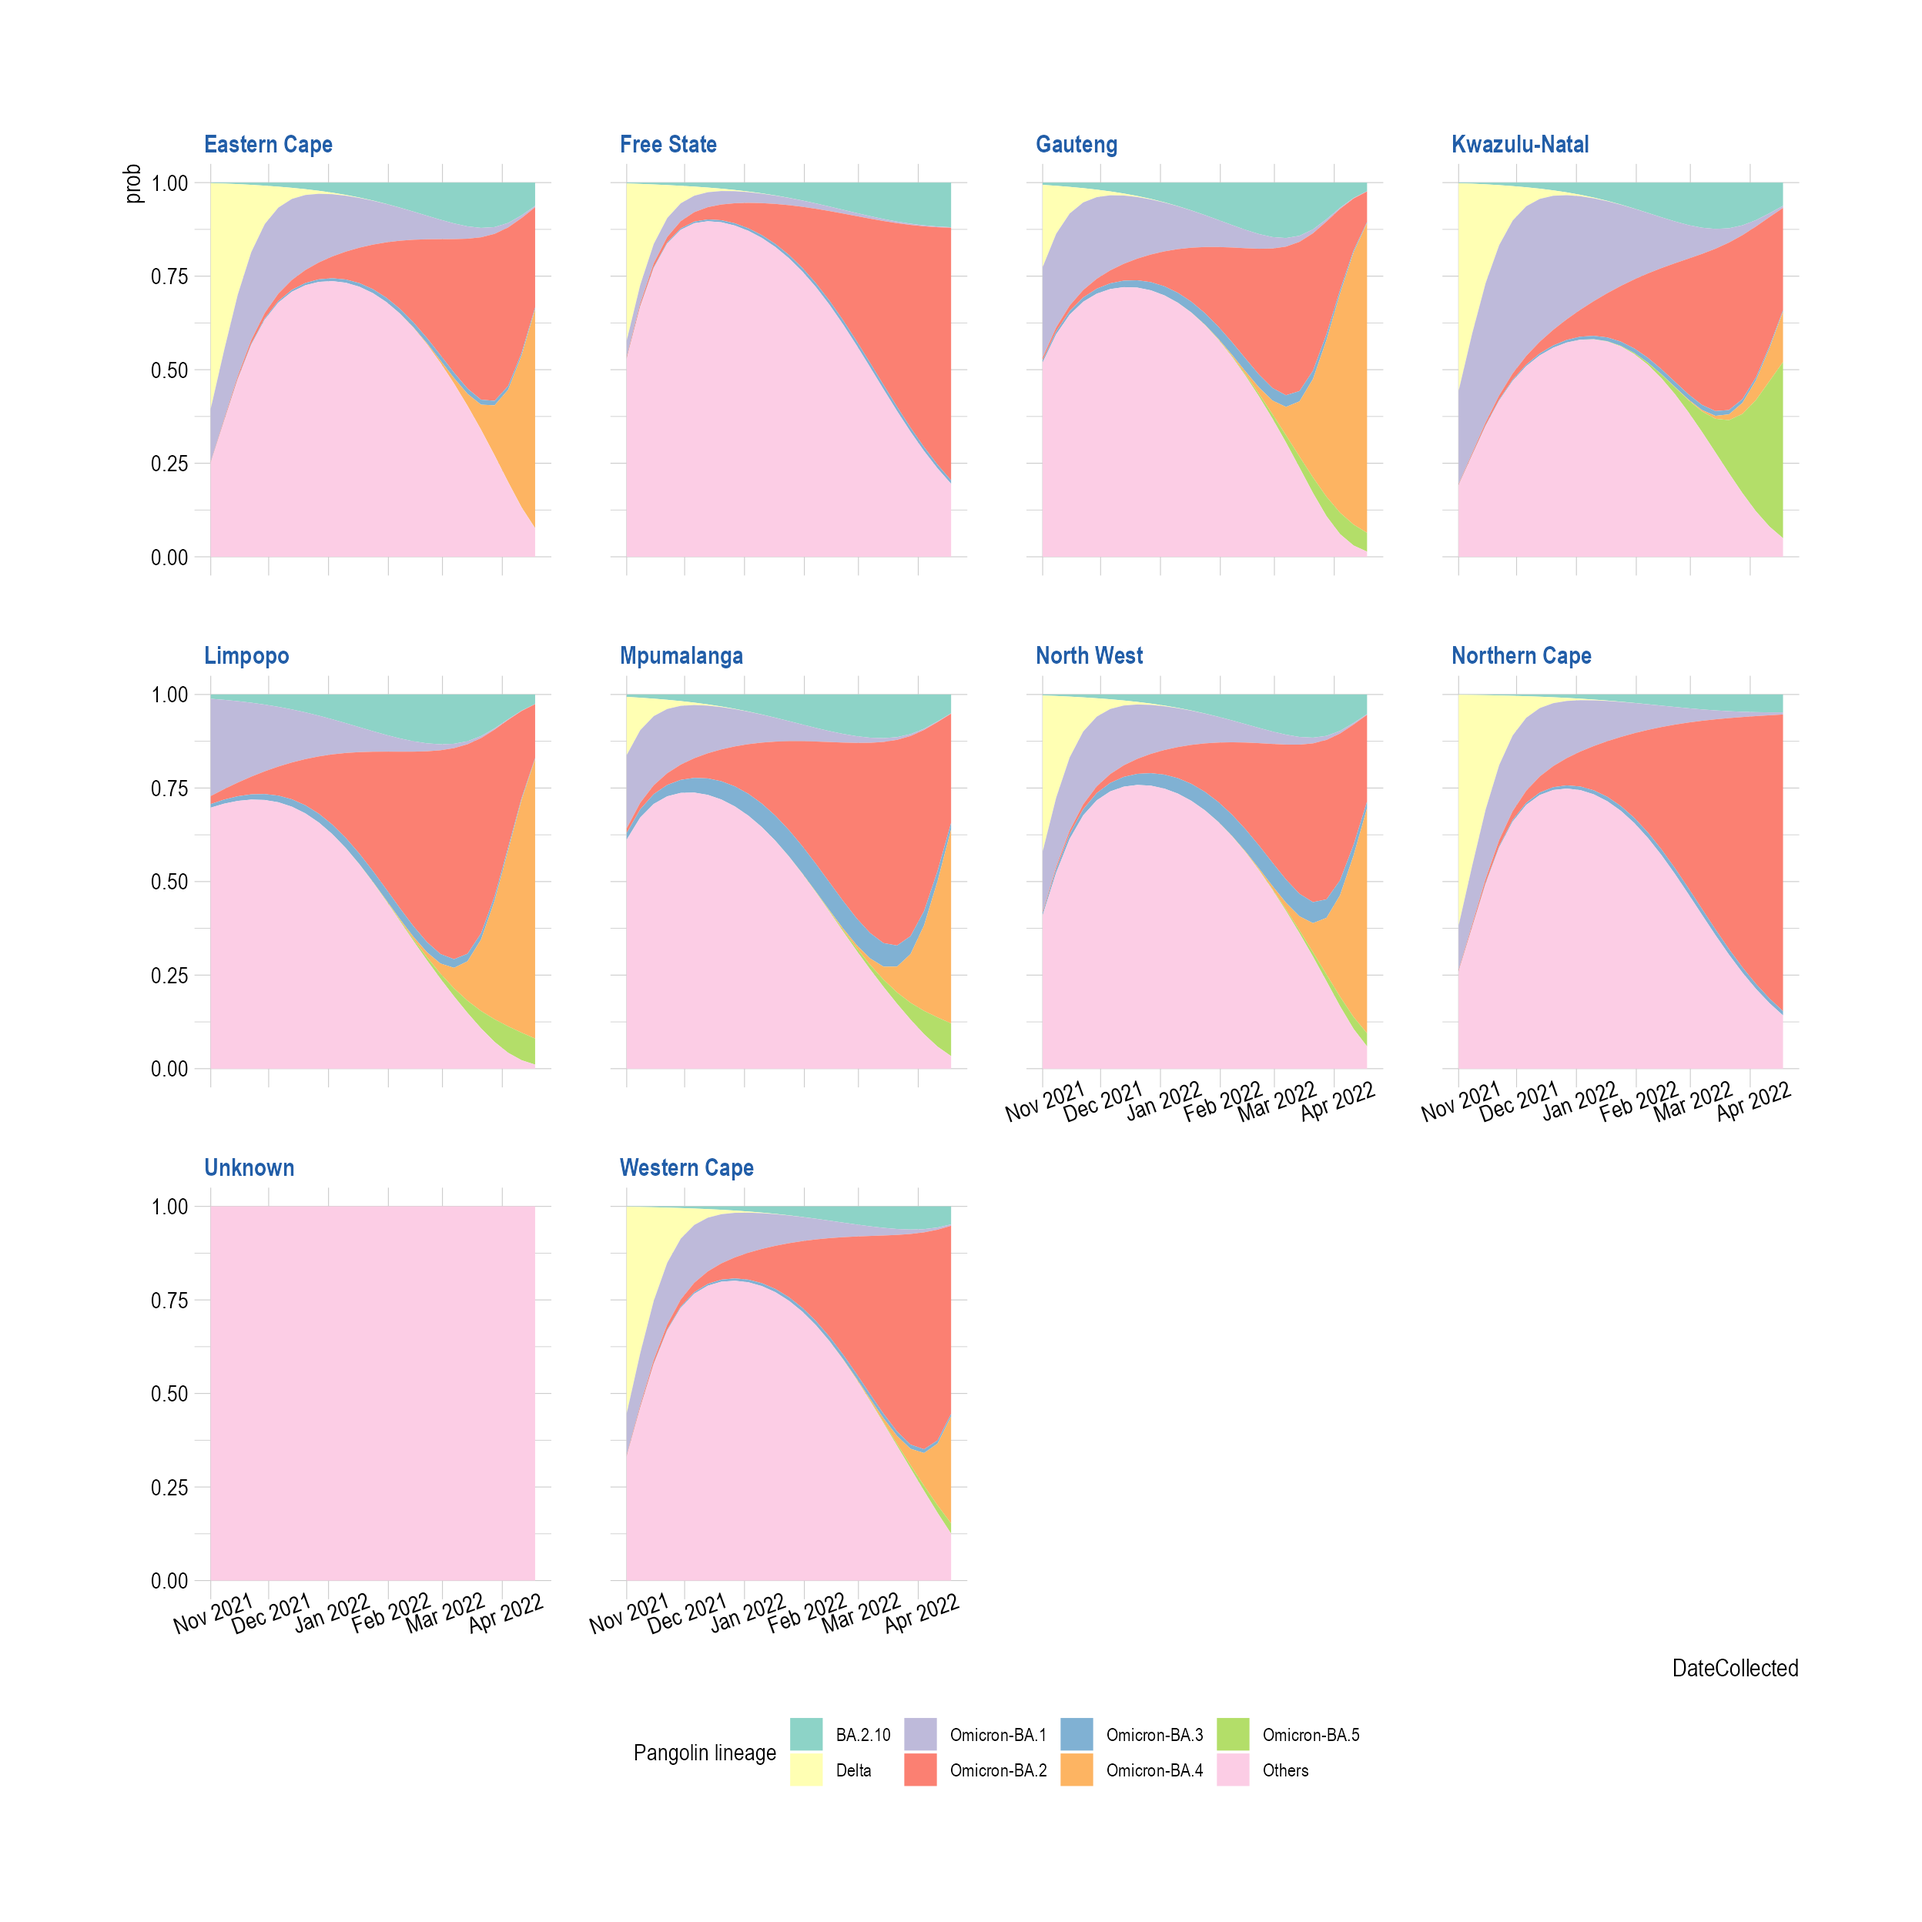
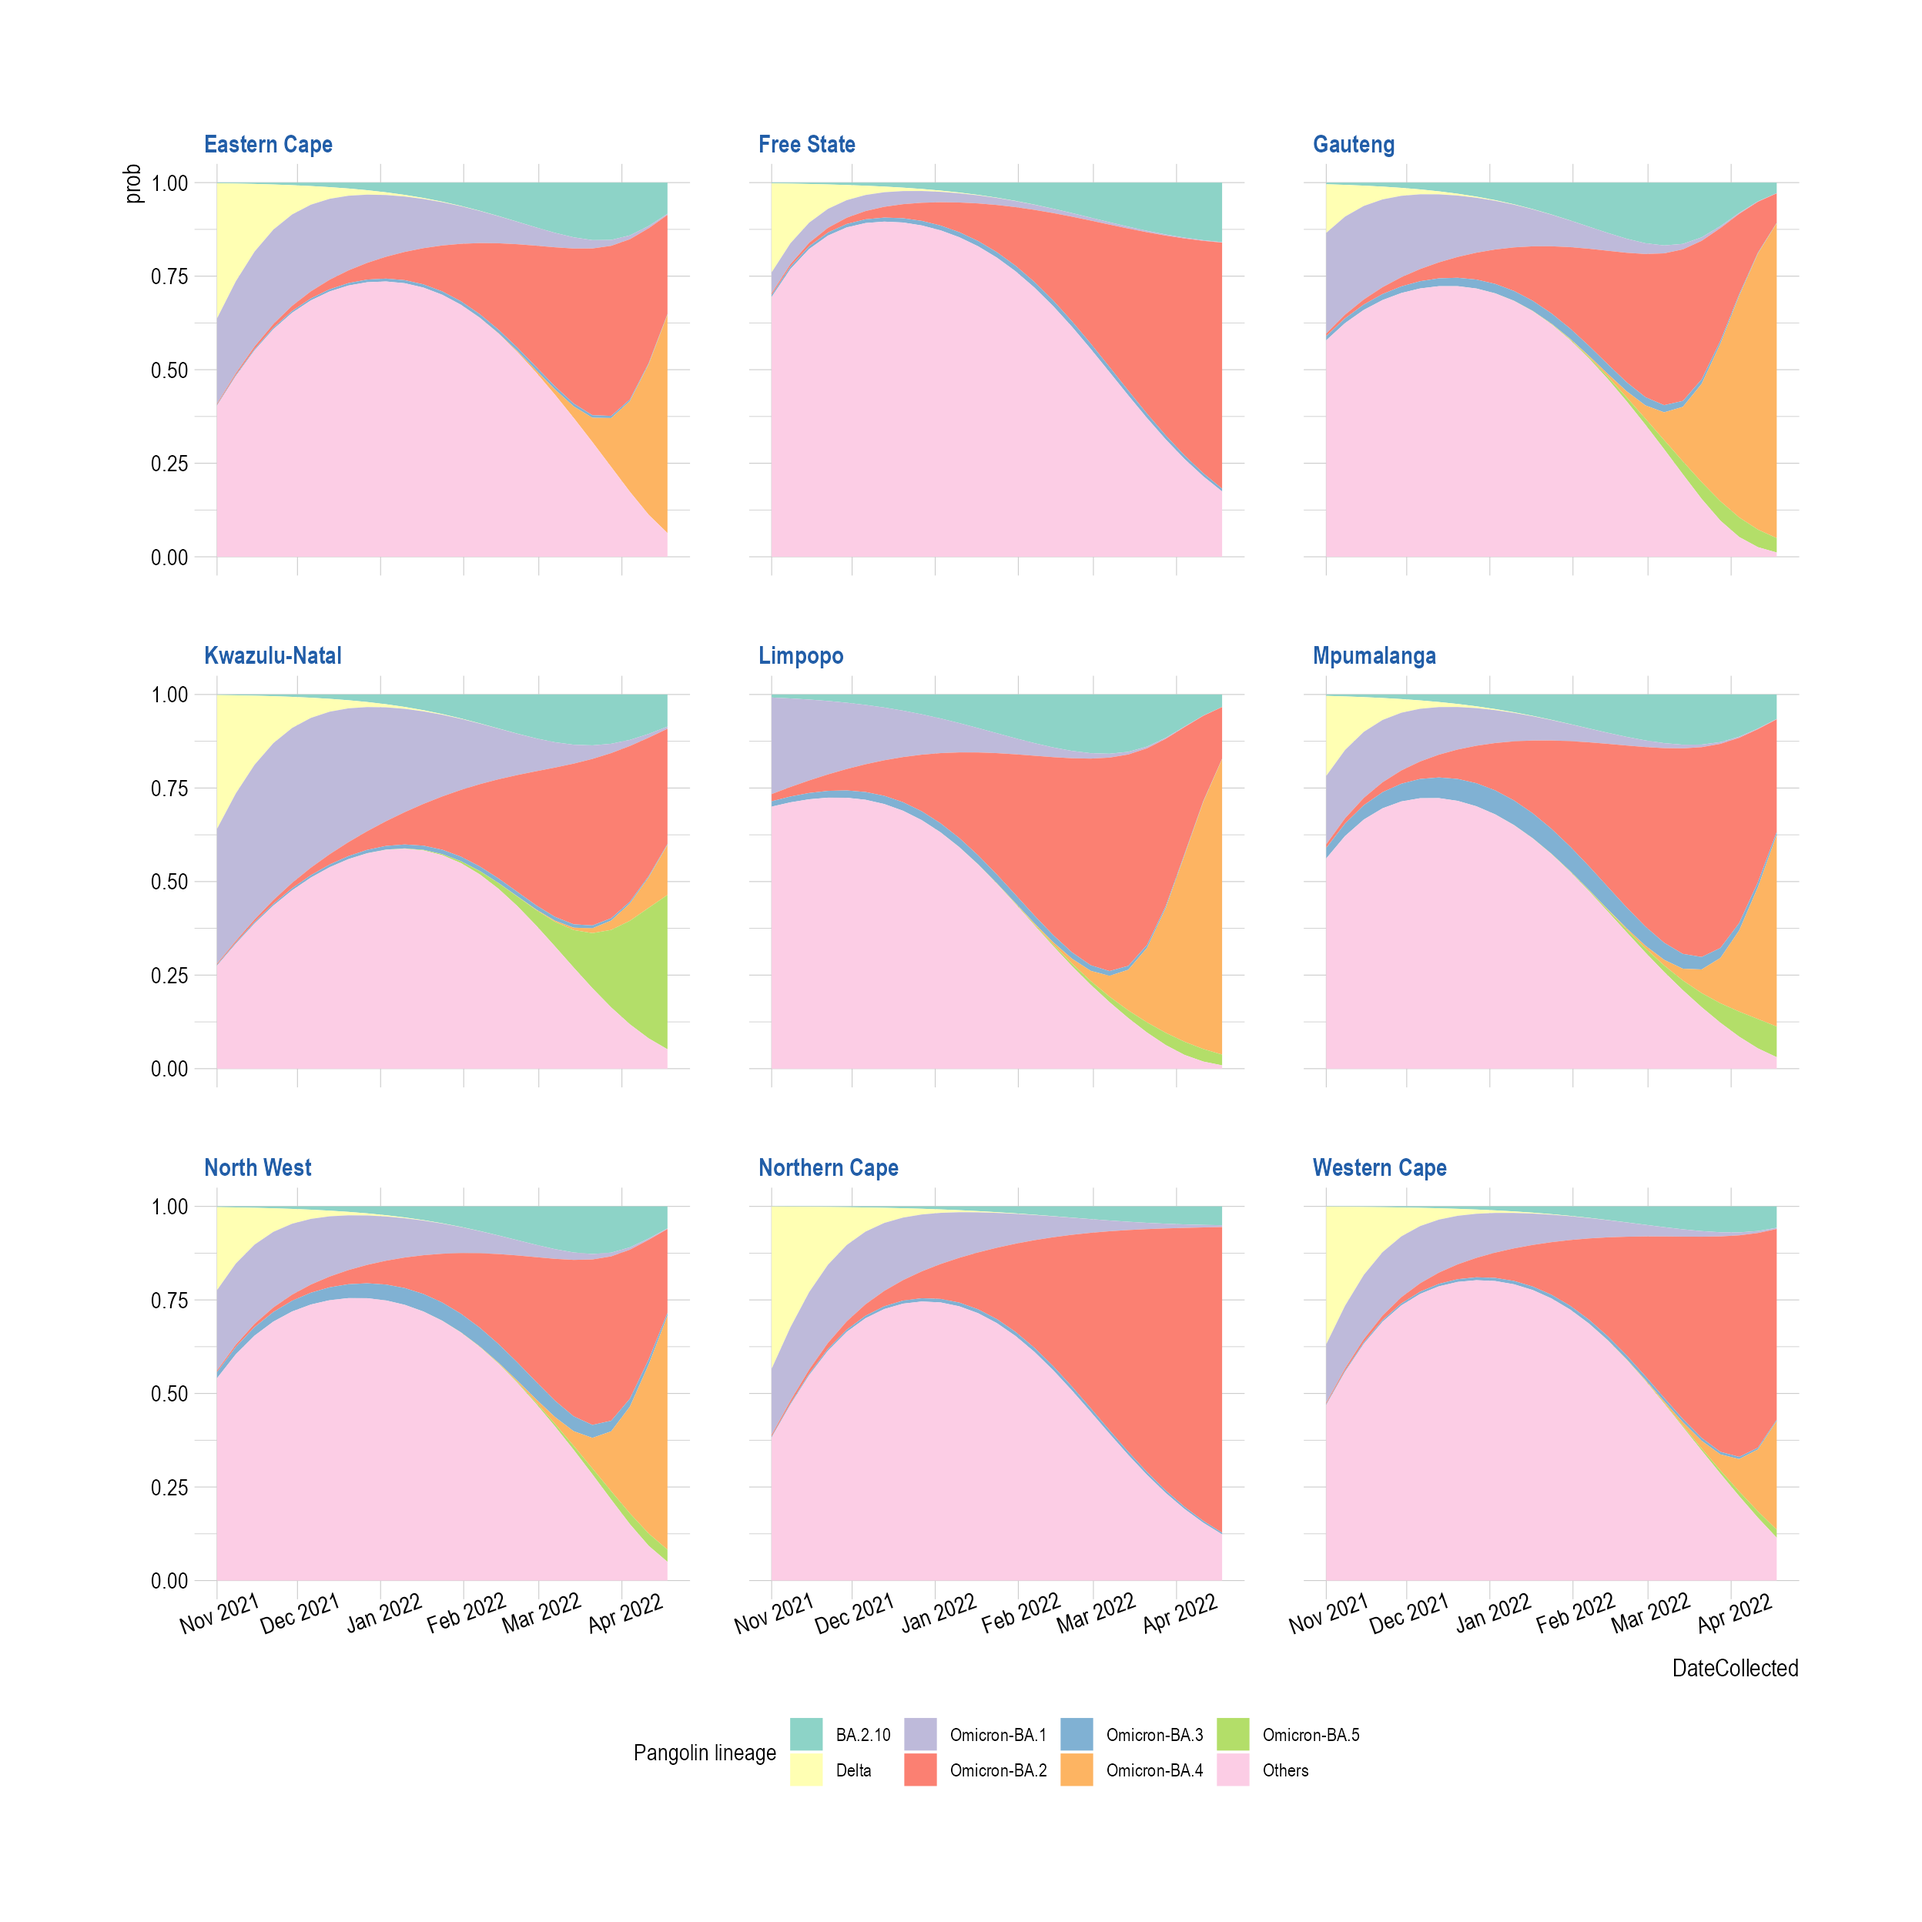
Adjustments for South africa

diff --git a/docs/articles/MultinomialModeling_SouthAfrica.html b/docs/articles/MultinomialModeling_SouthAfrica.html
@@ -156,7 +156,9 @@
 
 <span class="va">gisaid_southafrica_collapsed_sel</span> <span class="op">&lt;-</span> <span class="va">gisaid_southafrica_collapsed</span> <span class="op"><a href="https://magrittr.tidyverse.org/reference/pipe.html" class="external-link">%&gt;%</a></span>
   <span class="fu"><a href="https://dplyr.tidyverse.org/reference/filter.html" class="external-link">filter</a></span><span class="op">(</span><span class="va">MonthYearCollected</span> <span class="op">&gt;=</span> <span class="st">"Nov 2021"</span><span class="op">)</span> <span class="op"><a href="https://magrittr.tidyverse.org/reference/pipe.html" class="external-link">%&gt;%</a></span>
-  <span class="fu"><a href="https://dplyr.tidyverse.org/reference/filter.html" class="external-link">filter</a></span><span class="op">(</span><span class="va">lineage_collapsed</span> <span class="op">!=</span> <span class="st">"Unassigned"</span><span class="op">)</span>
+  <span class="fu"><a href="https://dplyr.tidyverse.org/reference/filter.html" class="external-link">filter</a></span><span class="op">(</span><span class="va">lineage_collapsed</span> <span class="op">!=</span> <span class="st">"Unassigned"</span><span class="op">)</span> <span class="op"><a href="https://magrittr.tidyverse.org/reference/pipe.html" class="external-link">%&gt;%</a></span>
+  <span class="fu"><a href="https://dplyr.tidyverse.org/reference/filter.html" class="external-link">filter</a></span><span class="op">(</span><span class="va">State</span><span class="op">!=</span><span class="st">"Unknown"</span><span class="op">)</span>
+
 <span class="va">vocs_to_keep</span> <span class="op">&lt;-</span> <span class="fu"><a href="https://rdrr.io/r/base/table.html" class="external-link">table</a></span><span class="op">(</span><span class="va">gisaid_southafrica_collapsed_sel</span><span class="op">$</span><span class="va">lineage_collapsed</span><span class="op">)</span>
 <span class="va">vocs_to_keep</span> <span class="op">&lt;-</span> <span class="va">vocs_to_keep</span><span class="op">[</span><span class="va">vocs_to_keep</span> <span class="op">&gt;</span> <span class="fl">100</span><span class="op">]</span>
 
@@ -175,50 +177,48 @@
 <span class="co">## <span style="color: #BCBCBC;">6</span> Eastern Cape                <span style="text-decoration: underline;">18</span>945 Delta                 1</span></code></pre>
 <div class="sourceCode" id="cb8"><pre class="downlit sourceCode r">
 <code class="sourceCode R"><span class="va">fit_southafrica_multi_predsbystate</span> <span class="op">&lt;-</span> <span class="fu">FitMultinomStatewiseDaily</span><span class="op">(</span><span class="va">gisaid_southafrica_shared_dateweek</span><span class="op">)</span></code></pre></div>
-<pre><code><span class="co">## # weights:  96 (77 variable)</span>
-<span class="co">## initial  value 26030.449219 </span>
-<span class="co">## iter  10 value 16258.409751</span>
-<span class="co">## iter  20 value 15503.742010</span>
-<span class="co">## iter  30 value 15235.071081</span>
-<span class="co">## iter  40 value 15112.533024</span>
-<span class="co">## iter  50 value 14391.225541</span>
-<span class="co">## iter  60 value 13855.968108</span>
-<span class="co">## iter  70 value 13622.630706</span>
-<span class="co">## iter  80 value 13216.826470</span>
-<span class="co">## iter  90 value 13091.147960</span>
-<span class="co">## iter 100 value 12866.234220</span>
-<span class="co">## iter 110 value 12767.761757</span>
-<span class="co">## iter 120 value 12713.292185</span>
-<span class="co">## iter 130 value 12578.127697</span>
-<span class="co">## iter 140 value 12541.199480</span>
-<span class="co">## iter 150 value 12534.479345</span>
-<span class="co">## iter 160 value 12533.676371</span>
-<span class="co">## iter 170 value 12533.660374</span>
-<span class="co">## final  value 12533.660079 </span>
+<pre><code><span class="co">## # weights:  88 (70 variable)</span>
+<span class="co">## initial  value 26005.495920 </span>
+<span class="co">## iter  10 value 16247.427737</span>
+<span class="co">## iter  20 value 15501.553155</span>
+<span class="co">## iter  30 value 15234.444973</span>
+<span class="co">## iter  40 value 15107.627440</span>
+<span class="co">## iter  50 value 14400.877430</span>
+<span class="co">## iter  60 value 13848.772573</span>
+<span class="co">## iter  70 value 13603.510704</span>
+<span class="co">## iter  80 value 13219.351758</span>
+<span class="co">## iter  90 value 13070.225282</span>
+<span class="co">## iter 100 value 12856.833514</span>
+<span class="co">## iter 110 value 12748.143034</span>
+<span class="co">## iter 120 value 12675.820692</span>
+<span class="co">## iter 130 value 12581.669874</span>
+<span class="co">## iter 140 value 12576.232656</span>
+<span class="co">## iter 150 value 12566.762909</span>
+<span class="co">## final  value 12566.761558 </span>
 <span class="co">## converged</span></code></pre>
 <div class="sourceCode" id="cb10"><pre class="downlit sourceCode r">
 <code class="sourceCode R"><span class="fu"><a href="https://rdrr.io/r/utils/head.html" class="external-link">head</a></span><span class="op">(</span><span class="va">fit_southafrica_multi_predsbystate</span><span class="op">)</span></code></pre></div>
 <pre><code><span class="co">##   lineage_collapsed DateCollectedNumeric        State         prob           SE</span>
-<span class="co">## 1           BA.2.10                18932 Eastern Cape 1.429494e-03 8.937343e-05</span>
-<span class="co">## 2             Delta                18932 Eastern Cape 6.027343e-01 1.716893e-02</span>
-<span class="co">## 3      Omicron-BA.1                18932 Eastern Cape 1.414271e-01 6.689260e-03</span>
-<span class="co">## 4      Omicron-BA.2                18932 Eastern Cape 2.045086e-03 1.068267e-04</span>
-<span class="co">## 5      Omicron-BA.3                18932 Eastern Cape 8.909845e-04 7.016379e-05</span>
-<span class="co">## 6      Omicron-BA.4                18932 Eastern Cape 5.500322e-10 4.821114e-11</span>
+<span class="co">## 1           BA.2.10                18932 Eastern Cape 1.627587e-03 8.548874e-05</span>
+<span class="co">## 2             Delta                18932 Eastern Cape 3.612843e-01 1.614315e-02</span>
+<span class="co">## 3      Omicron-BA.1                18932 Eastern Cape 2.278710e-01 7.166105e-03</span>
+<span class="co">## 4      Omicron-BA.2                18932 Eastern Cape 2.967278e-03 1.162455e-04</span>
+<span class="co">## 5      Omicron-BA.3                18932 Eastern Cape 2.241367e-03 1.575879e-04</span>
+<span class="co">## 6      Omicron-BA.4                18932 Eastern Cape 5.481813e-10 4.444790e-11</span>
 <span class="co">##   df    asymp.LCL    asymp.UCL DateCollected</span>
-<span class="co">## 1 NA 1.254326e-03 1.604663e-03    2021-11-01</span>
-<span class="co">## 2 NA 5.690838e-01 6.363848e-01    2021-11-01</span>
-<span class="co">## 3 NA 1.283164e-01 1.545378e-01    2021-11-01</span>
-<span class="co">## 4 NA 1.835710e-03 2.254463e-03    2021-11-01</span>
-<span class="co">## 5 NA 7.534660e-04 1.028503e-03    2021-11-01</span>
-<span class="co">## 6 NA 4.555401e-10 6.445243e-10    2021-11-01</span></code></pre>
+<span class="co">## 1 NA 1.460032e-03 1.795142e-03    2021-11-01</span>
+<span class="co">## 2 NA 3.296443e-01 3.929243e-01    2021-11-01</span>
+<span class="co">## 3 NA 2.138257e-01 2.419163e-01    2021-11-01</span>
+<span class="co">## 4 NA 2.739441e-03 3.195115e-03    2021-11-01</span>
+<span class="co">## 5 NA 1.932500e-03 2.550233e-03    2021-11-01</span>
+<span class="co">## 6 NA 4.610650e-10 6.352976e-10    2021-11-01</span></code></pre>
 </div>
 </div>
 <div class="section level2">
 <h2 id="plot-smooth-muller-plots">Plot Smooth Muller Plots<a class="anchor" aria-label="anchor" href="#plot-smooth-muller-plots"></a>
 </h2>
 <div class="sourceCode" id="cb12"><pre class="downlit sourceCode r">
-<code class="sourceCode R"><span class="va">muller_southafricabystate_mfit</span> <span class="op">&lt;-</span> <span class="fu">PlotMullerDailyPrevalence</span><span class="op">(</span><span class="va">fit_southafrica_multi_predsbystate</span><span class="op">)</span>
+<code class="sourceCode R"><span class="va">muller_southafricabystate_mfit</span> <span class="op">&lt;-</span> <span class="fu">PlotMullerDailyPrevalence</span><span class="op">(</span><span class="va">fit_southafrica_multi_predsbystate</span>, ncol <span class="op">=</span> <span class="fl">3</span><span class="op">)</span>
 <span class="va">muller_southafricabystate_mfit</span></code></pre></div>
 <p><img src="MultinomialModeling_SouthAfrica_files/figure-html/unnamed-chunk-8-1.png" width="1248"></p>
 </div>
